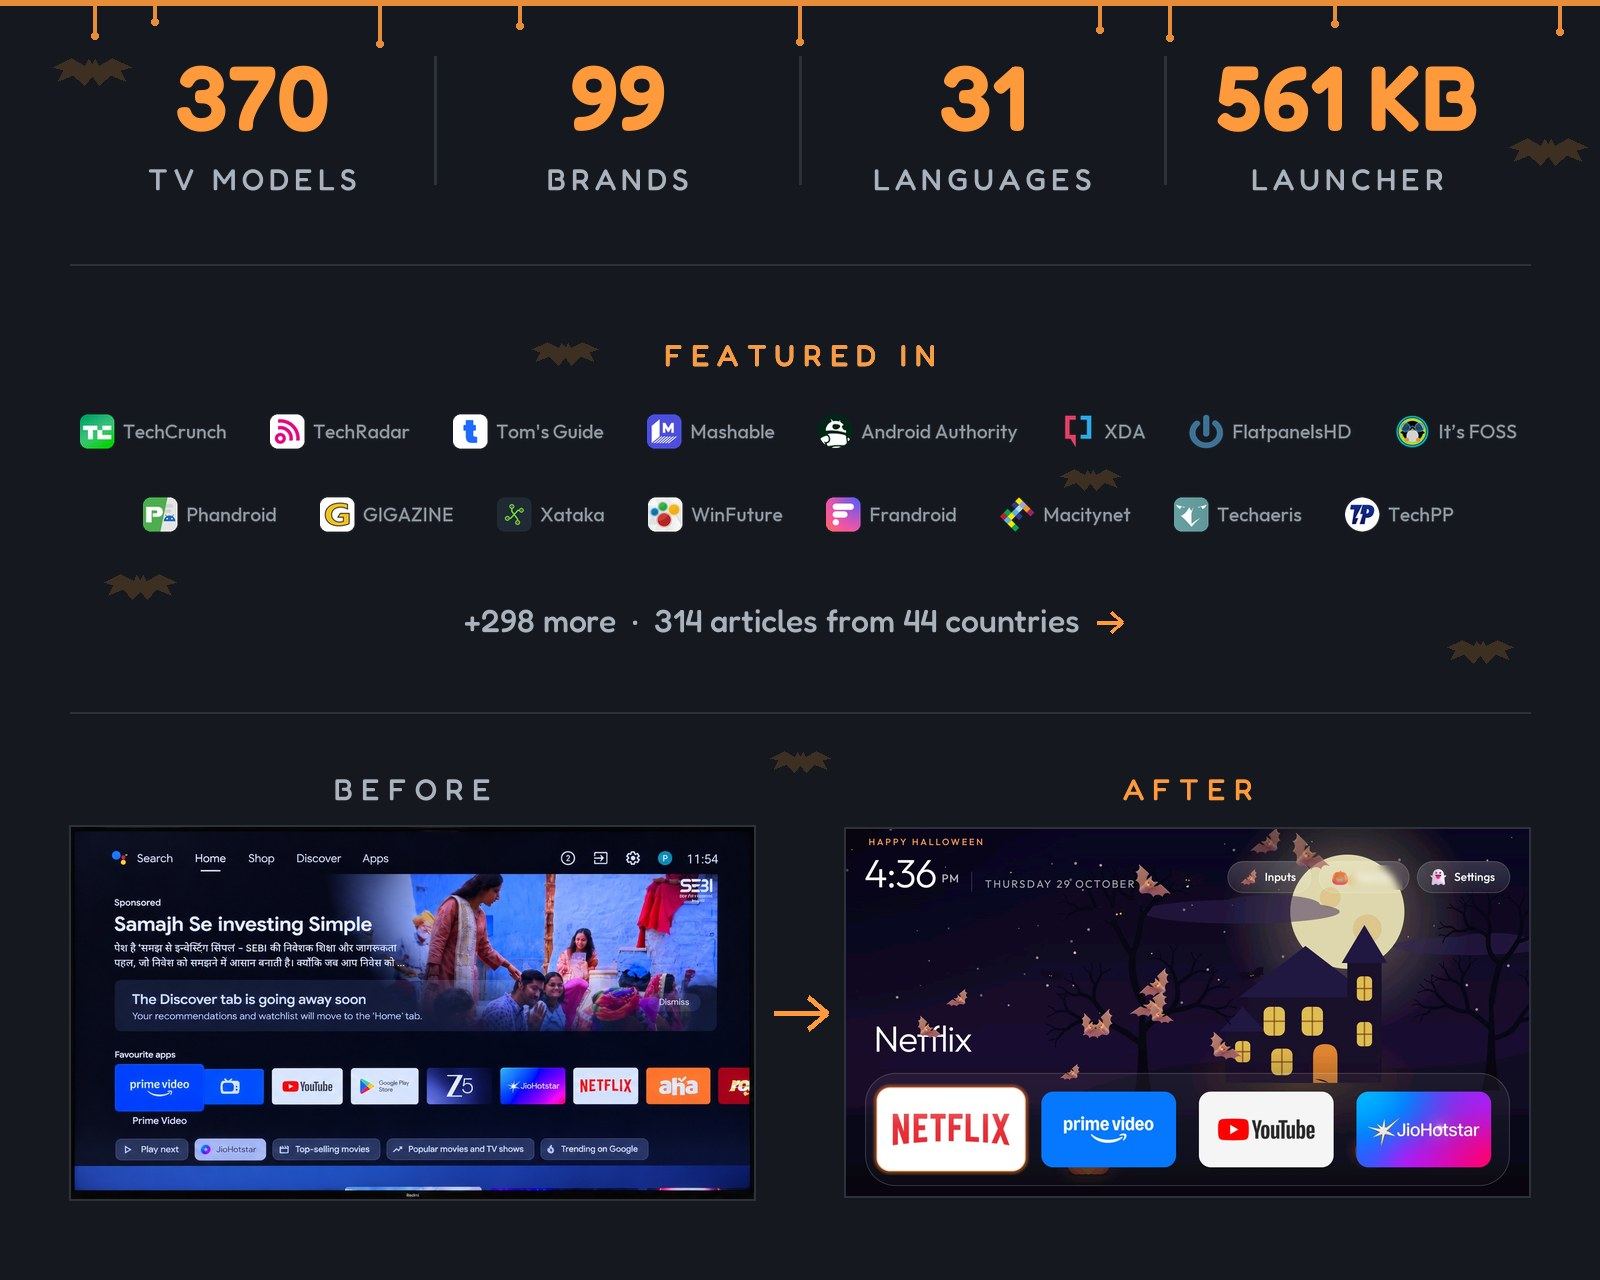
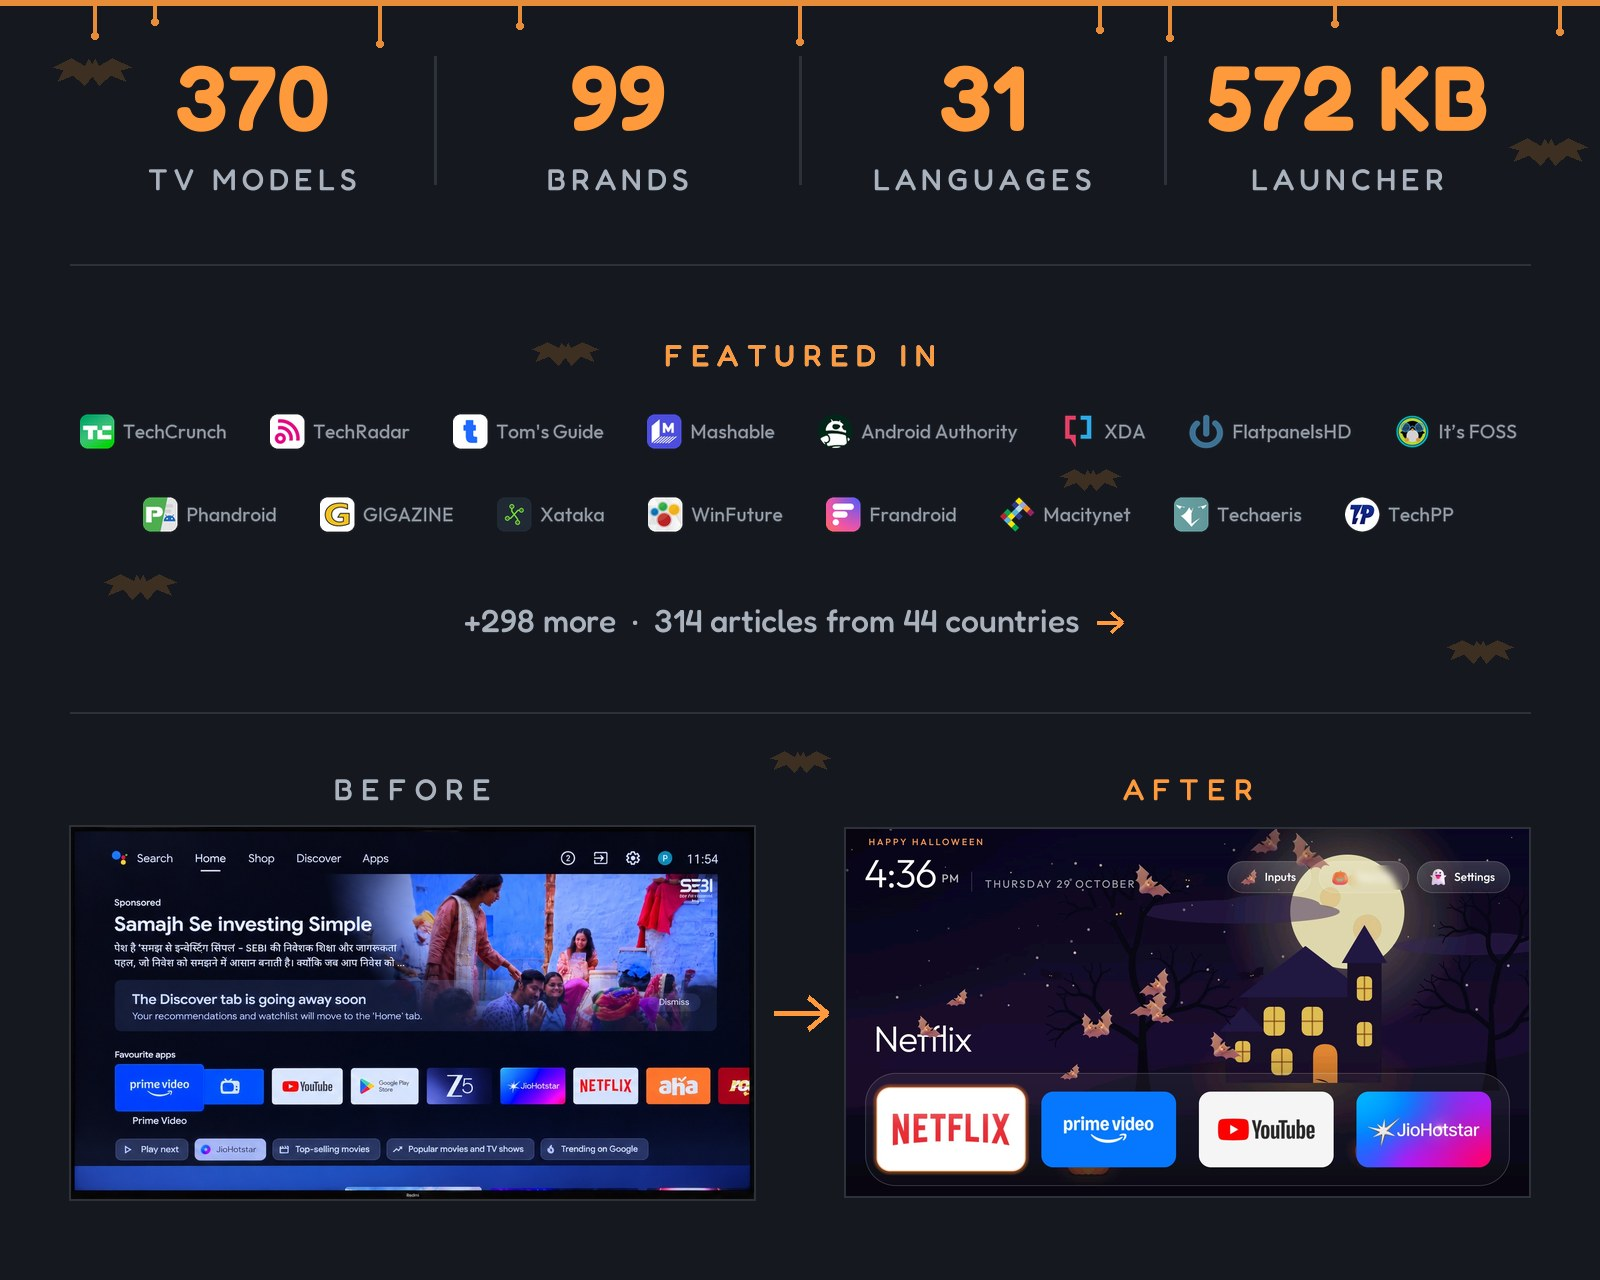
README: the launcher is about 572 KB after Round AK (585,489 B); cards redrawn

Changed region(s): [[0.75, 0.0312, 0.9375, 0.125]]

diff --git a/tests/test_translation_recipe_gate.py b/tests/test_translation_recipe_gate.py
@@ -5,7 +5,7 @@ in `values/strings.xml`, so a full language is by far the largest thing a transl
 adds to `launcher/app/src/main/res/` - and the release APK has a hard budget:
 `.github/workflows/ci.yml`'s `launcher` job, which runs on every pull request in `launcher/`, measures
 `launcher/app/build/outputs/apk/release/app-release.apk` and fails the build at 589,824 B. The launcher
-ships just under that (README.md quotes about 561 KB), and #1271 is a full Korean translation that did
+ships just under that (README.md quotes about 572 KB), and #1271 is a full Korean translation that did
 not fit. Until now the page said nothing about it, so a translator could follow the recipe exactly and
 land a red build at a step the page never mentions.
 

diff --git a/tools/readme_stats.py b/tools/readme_stats.py
@@ -71,7 +71,7 @@ try:
 except ImportError:
     sys.exit("readme_stats.py needs Pillow: tools/venv/bin/pip install -r tools/requirements-perf.txt")
 
-STATS = [("370", "TV MODELS"), ("99", "BRANDS"), ("31", "LANGUAGES"), ("561 KB", "LAUNCHER")]
+STATS = [("370", "TV MODELS"), ("99", "BRANDS"), ("31", "LANGUAGES"), ("572 KB", "LAUNCHER")]
 W, H = 1600, 240
 img = Image.new("RGB", (W, H), "#15181e"); d = ImageDraw.Draw(img)
 def f(size, wt):

diff --git a/README.nl.md b/README.nl.md
@@ -26,7 +26,7 @@
 </p>
 
 <p align="center">
-  <a href="docs/PRESS.md"><img src="docs/card-halloween.jpg" alt="370 tv-modellen · 99 merken · 31 talen · launcher van 561 KB. Genoemd in TechCrunch, TechRadar, Tom's Guide, Mashable, Android Authority, XDA, FlatpanelsHD, It's FOSS, Phandroid, GIGAZINE, Xataka, WinFuture, Frandroid, Macitynet, Techaeris, TechPP en nog 298 media: 314 artikelen uit 44 landen. Voorheen: het standaard Google TV-startscherm met een gesponsorde advertentie. Daarna: de Clean Your TV-launcher." width="800"></a>
+  <a href="docs/PRESS.md"><img src="docs/card-halloween.jpg" alt="370 tv-modellen · 99 merken · 31 talen · launcher van 572 KB. Genoemd in TechCrunch, TechRadar, Tom's Guide, Mashable, Android Authority, XDA, FlatpanelsHD, It's FOSS, Phandroid, GIGAZINE, Xataka, WinFuture, Frandroid, Macitynet, Techaeris, TechPP en nog 298 media: 314 artikelen uit 44 landen. Voorheen: het standaard Google TV-startscherm met een gesponsorde advertentie. Daarna: de Clean Your TV-launcher." width="800"></a>
 </p>
 
 **De virale tweet:** [x.com/gathint/status/2111379569030939102](https://x.com/gathint/status/2111379569030939102)
@@ -561,7 +561,7 @@ tools/theme.sh themes/aurora                                 # push a theme; --r
 | [`tools/flamechart.py`](tools/flamechart.py) | Maakt voor een pull request een flame chart vóór en na de wijziging op basis van die traces: één baan per thread op een gedeelde tijdschaal, met het werk waarop de wijziging zich richt in magenta en met de totale duur. Optioneel, net als de trace-hulpmiddelen. [Handleiding](tools/flamechart.md). |
 | [`tools/screendiff.py`](tools/screendiff.py) | Vergelijkt schermafbeeldingen van vóór en na pixel voor pixel, laat de klok en alles wat je maskeert buiten beschouwing en slaat beide afbeeldingen op met de wifi-naam vervaagd. Optioneel, net als de trace-hulpmiddelen. [Handleiding](tools/screendiff.md). |
 | [`tools/race_calendar.py`](tools/race_calendar.py) | Schrijft de F1-kalender van dit seizoen in een thema voor de raceweekendmodus, via de gratis Jolpica-API. |
-| [`launcher/build-and-install.sh`](launcher/build-and-install.sh) | Bouwt een verkleinde release (ongeveer 561 KB), installeert deze, schakelt het startscherm om en draait de wijziging terug als de nieuwe launcher niet het startscherm wordt. |
+| [`launcher/build-and-install.sh`](launcher/build-and-install.sh) | Bouwt een verkleinde release (ongeveer 572 KB), installeert deze, schakelt het startscherm om en draait de wijziging terug als de nieuwe launcher niet het startscherm wordt. |
 
 De scripts zorgen er altijd voor dat de tv een startscherm-app behoudt: ze schakelen alleen een herkende standaardlauncher uit en slaan die app in een lijst over totdat een andere launcher op HOME reageert. Zie hieronder voor meer informatie.
 
@@ -609,7 +609,7 @@ De controle kan niet bewijzen wat de bedoeling is. `appops` laat zien dat een be
 <a id="the-launcher"></a>
 ## De launcher
 
-Een klein, native startscherm voor Android TV: **ongeveer 561 KB**, geschreven in gewone Java en ontworpen voor tv's met 1 GB RAM. Geen vervagingseffecten, geen video, geen netwerktoestemming en geen achtergrondservices.
+Een klein, native startscherm voor Android TV: **ongeveer 572 KB**, geschreven in gewone Java en ontworpen voor tv's met 1 GB RAM. Geen vervagingseffecten, geen video, geen netwerktoestemming en geen achtergrondservices.
 
 De **tv** moet Android 8.0 (API 26) of nieuwer gebruiken. `minSdk` stelt de minimale versie in tijdens het bouwen in [`launcher/app/build.gradle`](launcher/app/build.gradle). Het installatiescript vraagt vóór het bouwen de waarde van `ro.build.version.sdk` op, zodat een oudere tv beide versienummers te zien krijgt in plaats van pas bij `pm install` te mislukken. Zie [Problemen oplossen](docs/TROUBLESHOOTING.md) voor wat op zo'n tv nog mogelijk is.
 

diff --git a/README.de.md b/README.de.md
@@ -20,7 +20,7 @@
 </p>
 
 <p align="center">
-  <a href="docs/PRESS.md"><img src="docs/card-halloween.jpg" alt="370 TV-Modelle · 99 Marken · 31 Sprachen · Launcher mit 561 KB. Erwähnt in TechCrunch, TechRadar, Tom's Guide, Mashable, Android Authority, XDA, FlatpanelsHD, It's FOSS, Phandroid, GIGAZINE, Xataka, WinFuture, Frandroid, Macitynet, Techaeris, TechPP und 298 weitere: 314 Artikel aus 44 Ländern. Vorher: der Google-TV-Startbildschirm mit einer bezahlten Anzeige. Nachher: der Clean-Your-TV-Launcher." width="800"></a>
+  <a href="docs/PRESS.md"><img src="docs/card-halloween.jpg" alt="370 TV-Modelle · 99 Marken · 31 Sprachen · Launcher mit 572 KB. Erwähnt in TechCrunch, TechRadar, Tom's Guide, Mashable, Android Authority, XDA, FlatpanelsHD, It's FOSS, Phandroid, GIGAZINE, Xataka, WinFuture, Frandroid, Macitynet, Techaeris, TechPP und 298 weitere: 314 Artikel aus 44 Ländern. Vorher: der Google-TV-Startbildschirm mit einer bezahlten Anzeige. Nachher: der Clean-Your-TV-Launcher." width="800"></a>
 </p>
 
 ## Einstieg
@@ -192,7 +192,7 @@ tools/theme.sh themes/aurora                                 # ein Theme aufspie
 | [`tools/flamechart.py`](tools/flamechart.py) | Zeichnet aus diesen Traces ein Vorher/Nachher-Flammendiagramm für einen Pull Request: eine Spur je Thread auf gemeinsamer Zeitachse, die Arbeit, die eine Änderung trifft, in Magenta mit ihrer Summe. Optional, wie die Trace-Werkzeuge. [Anleitung](tools/flamechart.md). |
 | [`tools/screendiff.py`](tools/screendiff.py) | Vergleicht ein Vorher- und ein Nachher-Bild Pixel für Pixel, lässt die Uhr oder das aus, was du maskierst, und schreibt das Paar mit unkenntlich gemachtem WLAN-Namen. Optional, wie die Trace-Werkzeuge. [Anleitung](tools/screendiff.md). |
 | [`tools/race_calendar.py`](tools/race_calendar.py) | Schreibt den F1-Kalender dieser Saison in ein Theme für den Rennwochenend-Modus, aus der freien Jolpica-API. |
-| [`launcher/build-and-install.sh`](launcher/build-and-install.sh) | Baut ein geschrumpftes Release (etwa 561 KB), installiert es, schaltet Home um und rollt zurück, wenn Home nicht darauf landet. |
+| [`launcher/build-and-install.sh`](launcher/build-and-install.sh) | Baut ein geschrumpftes Release (etwa 572 KB), installiert es, schaltet Home um und rollt zurück, wenn Home nicht darauf landet. |
 
 Die Skripte lassen den Fernseher nie ohne Home-App: sie deaktivieren nur einen Hersteller-Launcher, den sie erkennen,
 und überspringen die Home-App in einer Liste, bis ein anderer Launcher auf HOME antwortet. Eigene Listen können außerhalb
@@ -247,7 +247,7 @@ Debloat-Liste. Was die Prüfung nicht kann, ist Absicht beweisen: [docs/privacy.
 
 ## Der Launcher
 
-Ein kleiner nativer Startbildschirm für Android TV: **etwa 561 KB**, einfaches Java, gebaut für Fernseher mit 1 GB RAM.
+Ein kleiner nativer Startbildschirm für Android TV: **etwa 572 KB**, einfaches Java, gebaut für Fernseher mit 1 GB RAM.
 Kein Weichzeichnen, kein Video, keine Netzwerkberechtigung, keine Hintergrunddienste. Der **Fernseher** braucht Android 8.0 (API 26)
 oder neuer, das `minSdk` in [`launcher/app/build.gradle`](launcher/app/build.gradle); was auf einem älteren
 Gerät übrig bleibt, steht in der [Fehlerbehebung](docs/TROUBLESHOOTING.md).

diff --git a/README.md b/README.md
@@ -24,7 +24,7 @@
 </p>
 
 <p align="center">
-  <a href="docs/PRESS.md"><img src="docs/card-halloween.jpg" alt="370 TV models · 99 brands · 31 languages · 561 KB launcher. Featured in TechCrunch, TechRadar, Tom's Guide, Mashable, Android Authority, XDA, FlatpanelsHD, It's FOSS, Phandroid, GIGAZINE, Xataka, WinFuture, Frandroid, Macitynet, Techaeris, TechPP and 298 more: 314 articles from 44 countries. Before: stock Google TV home with a sponsored ad. After: the Clean Your TV launcher." width="800"></a>
+  <a href="docs/PRESS.md"><img src="docs/card-halloween.jpg" alt="370 TV models · 99 brands · 31 languages · 572 KB launcher. Featured in TechCrunch, TechRadar, Tom's Guide, Mashable, Android Authority, XDA, FlatpanelsHD, It's FOSS, Phandroid, GIGAZINE, Xataka, WinFuture, Frandroid, Macitynet, Techaeris, TechPP and 298 more: 314 articles from 44 countries. Before: stock Google TV home with a sponsored ad. After: the Clean Your TV launcher." width="800"></a>
 </p>
 
 ## Start here
@@ -205,7 +205,7 @@ tools/theme.sh themes/aurora                                 # push a theme; --r
 | [`tools/flamechart.py`](tools/flamechart.py) | Draws a before/after flame chart from those traces, for a pull request: one lane per thread on a shared time scale, the work a change targets in magenta with its total. Optional, like the trace tools. [Guide](tools/flamechart.md). |
 | [`tools/screendiff.py`](tools/screendiff.py) | Compares a before and an after screenshot pixel by pixel, leaving out the clock or anything you mask, and writes the pair with your Wi-Fi name blurred. Optional, like the trace tools. [Guide](tools/screendiff.md). |
 | [`tools/race_calendar.py`](tools/race_calendar.py) | Writes this season's F1 calendar into a theme for race-weekend mode, from the free Jolpica API. |
-| [`launcher/build-and-install.sh`](launcher/build-and-install.sh) | Builds a shrunk release (about 561 KB), installs it, switches Home, and rolls back if Home does not land on it. |
+| [`launcher/build-and-install.sh`](launcher/build-and-install.sh) | Builds a shrunk release (about 572 KB), installs it, switches Home, and rolls back if Home does not land on it. |
 
 The scripts never leave the TV without a Home app: they only disable a stock launcher they recognise,
 and skip the Home app in a list until another launcher answers HOME. Your own lists can live outside
@@ -268,7 +268,7 @@ debloat list. What the audit cannot do is prove intent: [docs/privacy.md](docs/p
 
 ## The launcher
 
-A small native home screen for Android TV: **about 561 KB**, plain Java, built for TVs with 1 GB of RAM.
+A small native home screen for Android TV: **about 572 KB**, plain Java, built for TVs with 1 GB of RAM.
 No blur, no video, no network permission, no background services. The **TV** needs Android 8.0 (API 26)
 or newer, the `minSdk` in [`launcher/app/build.gradle`](launcher/app/build.gradle); what is left on an older
 set is in [Troubleshooting](docs/TROUBLESHOOTING.md).

diff --git a/docs/workflows/translation.md b/docs/workflows/translation.md
@@ -32,7 +32,7 @@
 7. Check the size gate before you push. A language's strings ship in the release APK, and that APK has to
    stay under 589,824 B (576 KB): `launcher/app/build/outputs/apk/release/app-release.apk`, measured with
    `stat -c %s` on Linux or `stat -f %z` on macOS, and checked by the "Launcher build and unit tests" job
-   on every pull request. `README.md` quotes the launcher at about 561 KB, so a full language can be the
+   on every pull request. `README.md` quotes the launcher at about 572 KB, so a full language can be the
    difference between green and a failed build. A language that does not fit is a maintainer decision, not
    something to land by dropping strings ([#1271](https://github.com/Gathin23/cleanyourtv/issues/1271)).
 8. Build the launcher, set the TV's language (Android 13+: `tools/tv.py 'cmd locale set-app-locales com.gathin.tvhome --locales <tag>'`)

diff --git a/docs/launcher.md b/docs/launcher.md
@@ -2,7 +2,7 @@
 
 [Back to the README](../README.md#the-launcher)
 
-A small native home screen for Android TV: **about 561 KB**, plain Java, built for TVs with 1 GB of RAM.
+A small native home screen for Android TV: **about 572 KB**, plain Java, built for TVs with 1 GB of RAM.
 No blur, no video, no network permission, no background services. This page has the details the
 README leaves out: settings, languages, remote keys and building it yourself. Every key a theme can
 set is in [`themes/README.md`](../themes/README.md#keys), and the opt-in switches with their

diff --git a/.github/maintainer/MAINTAINER.md b/.github/maintainer/MAINTAINER.md
@@ -1,7 +1,7 @@
 # How CleanYourTV PRs are reviewed
 
 CleanYourTV (Gathin23/cleanyourtv) is a prompt plus tools that debloat Android TV / Google TV / Fire TV over
-ADB and a tiny native launcher (`launcher/`, plain Java, ~561 KB, for 1 GB TVs). Contributors mostly add
+ADB and a tiny native launcher (`launcher/`, plain Java, ~572 KB, for 1 GB TVs). Contributors mostly add
 tested TV lists under `examples/<tv>/`, translations, docs, small launcher options, themes, add-ons and tools.
 
 ## The policy: a small core plus a well-indexed hub
